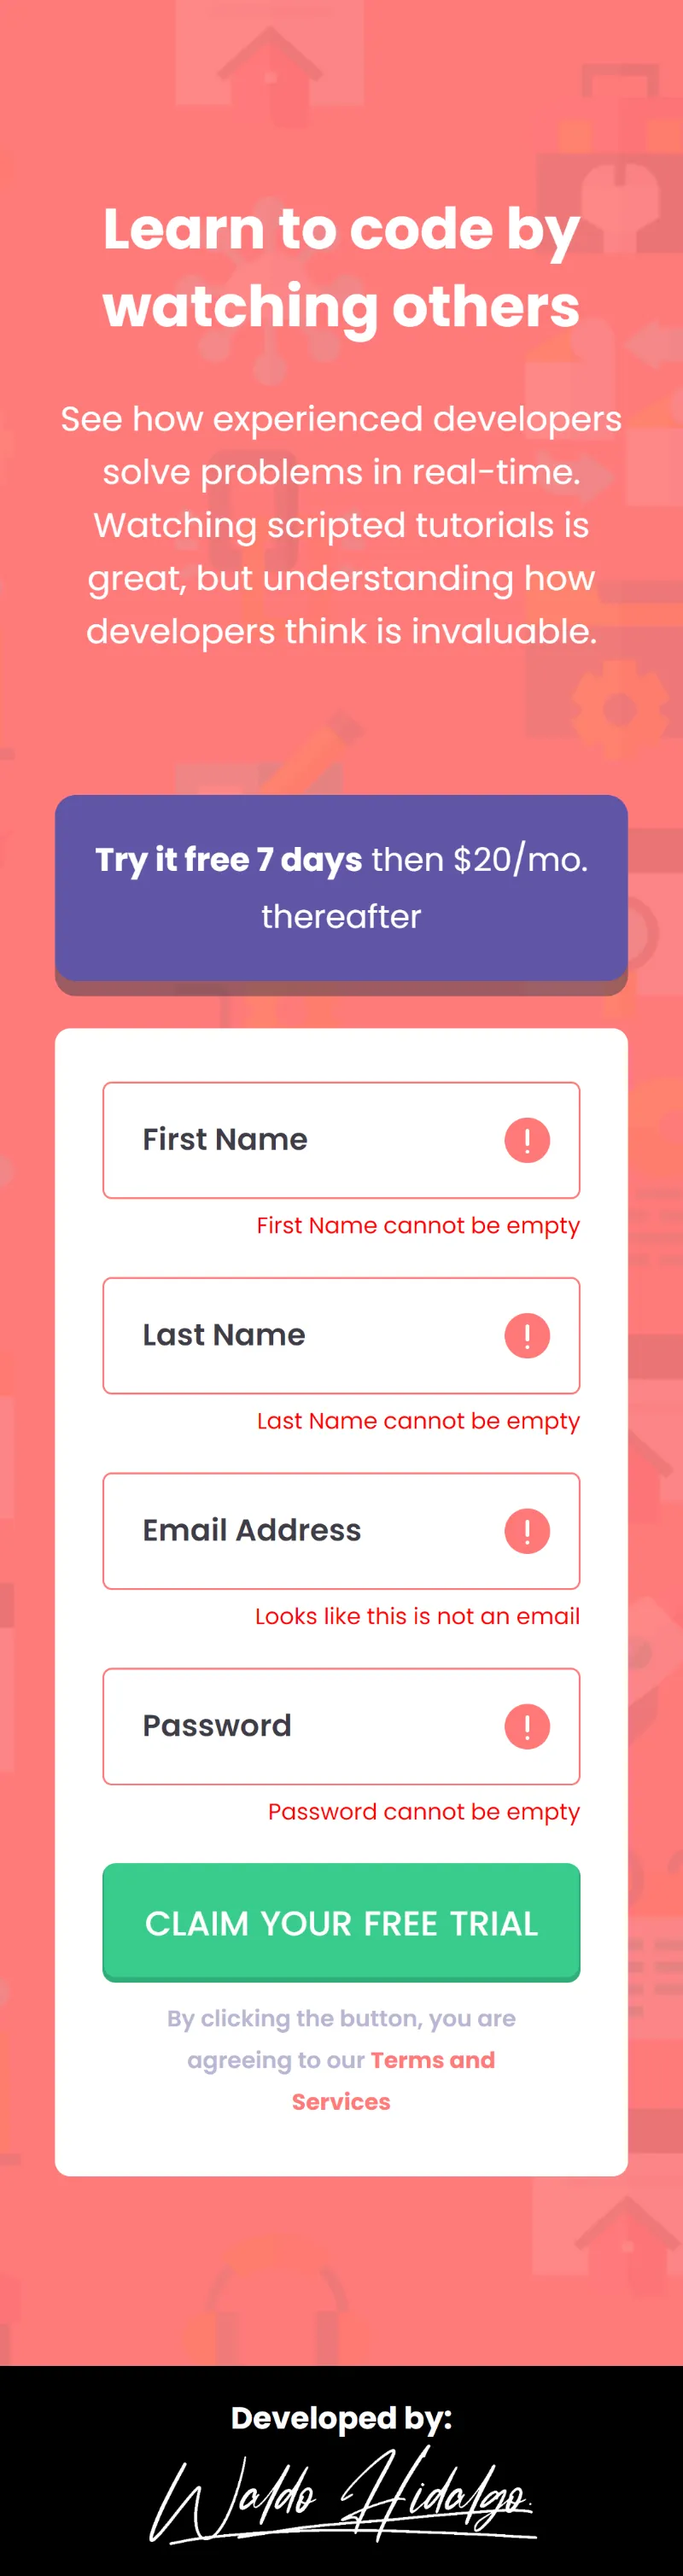
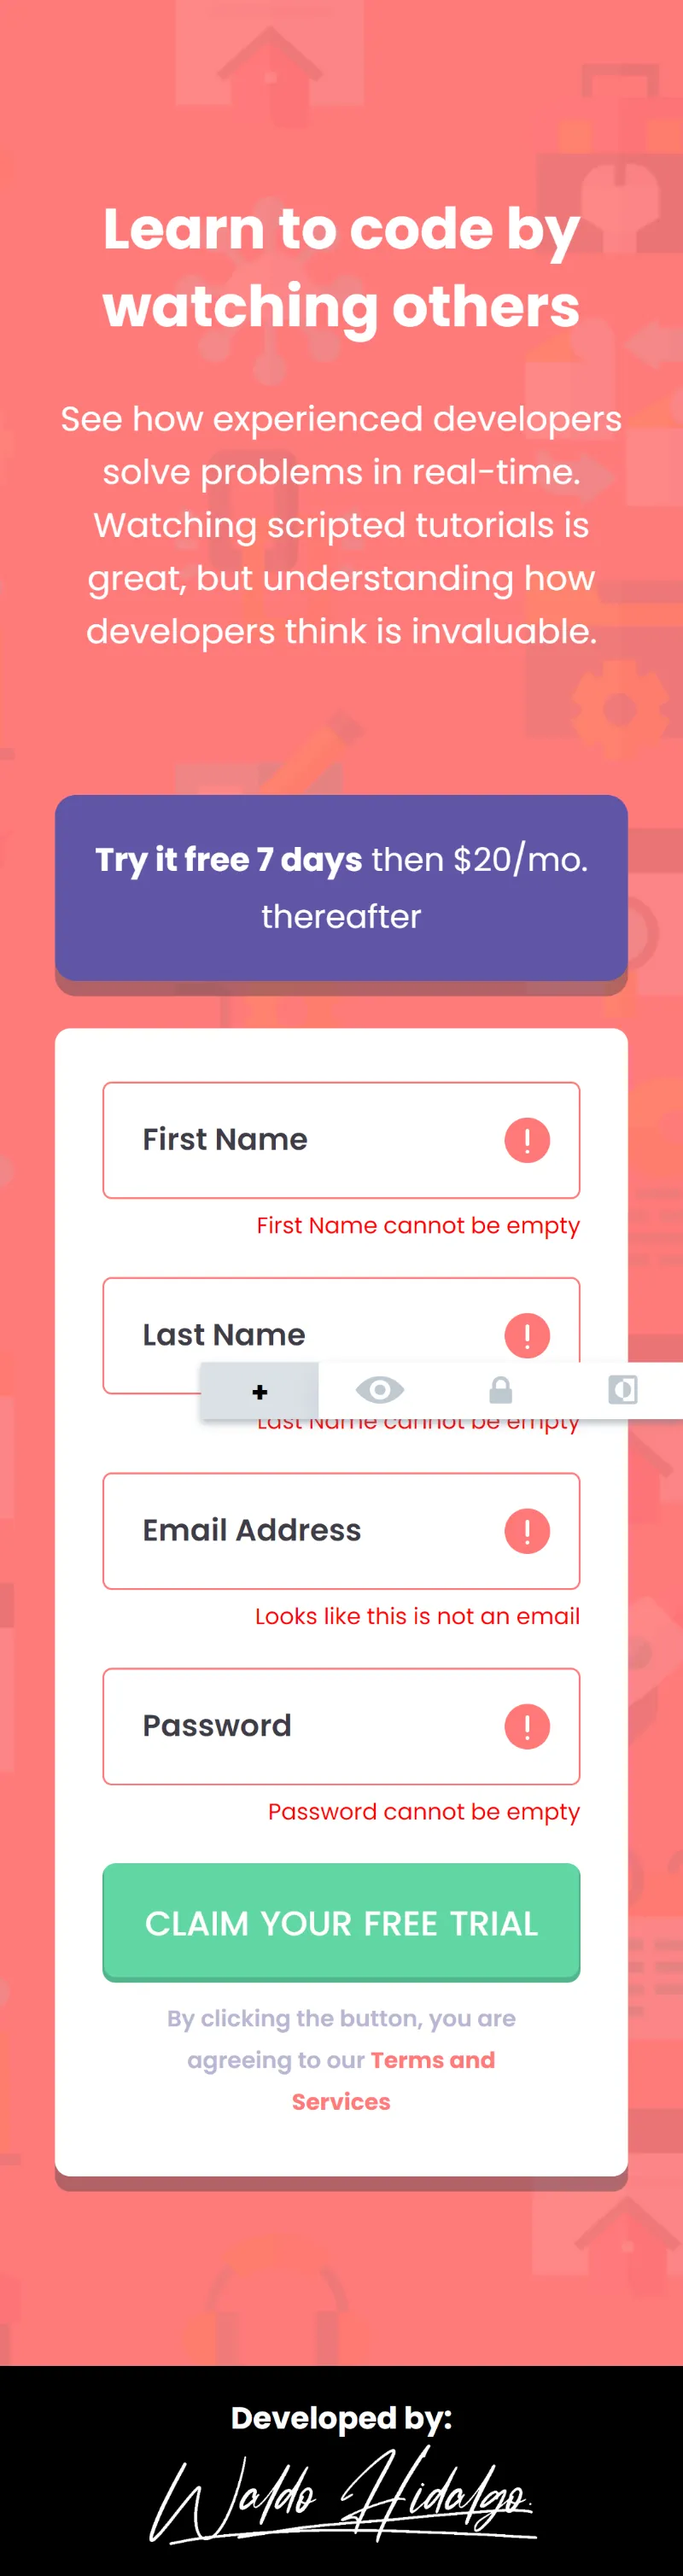
update images

Changed region(s): [[0.125, 0.7166, 0.875, 0.7789], [0.0938, 0.8412, 0.9062, 0.8724], [0.2812, 0.5297, 1.0, 0.5608]]

diff --git a/src/App.vue b/src/App.vue
@@ -81,13 +81,13 @@ export default {
     ></div>
 
     <div
-      class="flex flex-col p-[100px_29px] lg:flex-row md:p-[62px_15px] xl:p-[50px_166px]"
+      class="flex flex-col p-[100px_29px] lg:flex-row md:p-[62px_15px] xl:p-[50px_150px_114px_166px]"
     >
       <div
         class="w-full lg:w-[51.1%] lg:flex lg:flex-col lg:justify-center lg:items-start lg:gap-[15px]"
       >
         <h2
-          class="text-center text-white text-[30px] font-bold leading-[41px] lg:text-start lg:text-[49px] lg:mt-[80px] lg:leading-[56px]"
+          class="text-center text-white text-[30px] font-bold leading-[41px] lg:text-start lg:text-[49px] lg:mt-[73px] lg:leading-[56px]"
         >
           Learn to code by watching others
         </h2>
@@ -107,7 +107,7 @@ export default {
           thereafter
         </button>
         <form
-          class="mt-[25px] bg-white p-[28px_25px] flex flex-col rounded-[8px] gap-[18px] lg:p-[40px_42px]"
+          class="mt-[25px] bg-white p-[28px_25px] flex flex-col rounded-[8px] gap-[18px] lg:p-[40px_42px] shadow-button1"
           @submit.prevent="submitForm"
         >
           <InputForm

diff --git a/tailwind.config.js b/tailwind.config.js
@@ -14,7 +14,7 @@ export default {
         grayishBlue: "hsl(246, 25%, 77%)",
       },
       boxShadow: {
-        button1: "0 8px 0 0 hsla(249, 10%, 26%, 0.5)",
+        button1: "0 8px 0 0 hsla(249, 10%, 26%, 0.4)",
         button2: "0 -2px 0 1px rgba(0, 0, 0, 0.15) inset",
       },
     },
